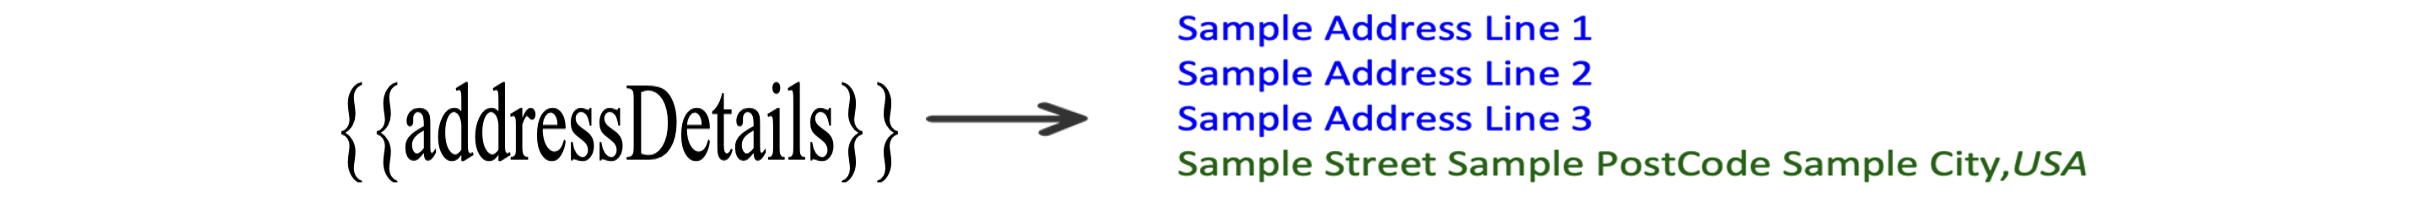
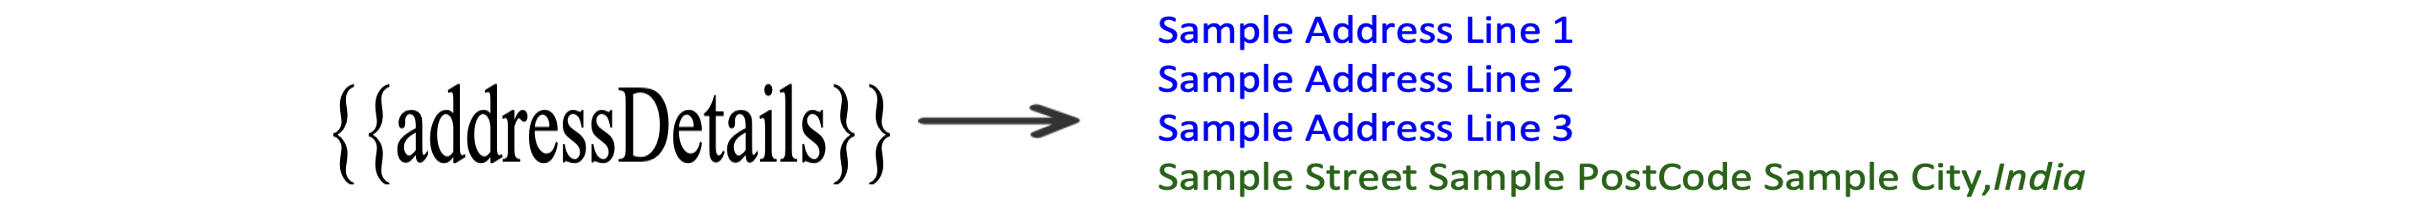
updated fragments constructs

diff --git a/src/pages/overview/document-generation-api/fragments.md b/src/pages/overview/document-generation-api/fragments.md
@@ -45,7 +45,7 @@ To resolve the text tags used in the above fragments, the **jsonDataForMerge** j
   "zipcode": "Sample zipcode",
   "firstname": "John",
   "lastname": "Roy",
-  "country": "USA",
+  "country": "India",
   "street": "Sample Street",
   "postcode": "Sample PostCode",
   "arr" : [1,2,3]
@@ -103,20 +103,20 @@ Evaluate value of fragments based on the conditions.
 [
   {
     "addressDetails": "<br>{{streetDetails}}<br>{{localityDetails}}",
-    "streetDetails": "<span style=\"color: 0000FF;\">{{addressline1}}<br>{{addressline2}}<br>{{addressline3}}",
-    "localityDetails": "<span style=\"color: 006400;\">{% conditional-section expr(country=\"USA\") %}{{street}} {{postcode}} {{city}},<i>{{country}}</i> {% end-section %} {% conditional-section expr(country=\"India\") %}{{street}} {{city}} {{state}} {{zip}},<i>{{country}}</i> {% end-section %}"
+    "streetDetails": "<span style=\"color: 0000FF;\">{{addressline1}}<br>{{addressline2}}<br>{{addressline3}}</span>",
+    "localityDetails": "<span style=\"color: 006400;\">{% conditional-section expr(country=\"India\") %}{{street}} {{postcode}} {{city}},<i>{{country}}</i> {% end-section %}{% conditional-section expr(country=\"USA\") %}{{street}}{{city}} {{state}} {{zip}},<i>{{country}}</i> {% end-section %}</span>"
   },
   {
-    "fullname": "<span style=\"color: ff0000;\">{{firstname}} {{lastnameStyled}}",
-    "lastnameStyled": "<span STYLE=\"font-size:14mm\"><b><i>{{lastname}}</i></b>"
+    "fullname": "<span style=\"color: ff0000;\">{{firstname}} {{lastnameStyled}}</span>",
+    "lastnameStyled": "<span STYLE=\"font-size:14mm\"><b><i>{{lastname}}</i></b></span>"
   }
 ]
 ```
 In the above example, the `addressDetails` depends upon `streetDetails` and `localityDetails`. But format of the address vary from country to country.
-For a country like USA, the format of `localityDetails` is
+For a country like India, the format of `localityDetails` is
 `street`
 `postCode city`
-`country`. For a country like India, the format of `localityDetails` is
+`country`. For a country like USA, the format of `localityDetails` is
 `street`
 `city, state zip`
 `country`.
@@ -138,9 +138,9 @@ Setting the tag as optional will replace the tag with empty string if it's value
 ]
 ```
 
-In the above example, the fragment tag `fullName` which is the composition of other tags namely `firstName`, `middleName` and `lastName`. But there are some people who don't have `middleName`. So, `middleName` needs to be optional, i.e, it should be ignore if it's value does n't exist.
+In the above example, the fragment tag `fullName` which is the composition of other tags namely `firstName`, `middleName` and `lastName`. But there are some people who don't have `middleName`. So, middleName needs to be optional, i.e, it should be ignored if it's value doesn't exist.
 
-![Output of fragment with condition in document](../images/fragments-optional.png)
+![Output of fragment with optional value in document](../images/fragments-optional.png)
 
 ### Default
 A default value can be specified for the tag used inside the fragment. In case, the specified tag is not present in the input data or fragment data, that tag gets replaced with the default value.
@@ -157,7 +157,7 @@ A default value can be specified for the tag used inside the fragment. In case, 
 
 In the above example, if the tag `organisation` does not exist in fragment or normal json, then default vaule (i.e. "Org") will be used.
 
-![Output of fragment with condition in document](../images/fragments-default.png)
+![Output of fragment with default value in document](../images/fragments-default.png)
 
 ### Prefix
 Prefix is value appended before that tag used inside the fragment.
@@ -173,31 +173,5 @@ Prefix is value appended before that tag used inside the fragment.
 ]
 ```
 
-![Output of fragment with condition in document](../images/fragments-prefix.png)
-
-### Expression
-The Expressions and Jsonata functions are supported inside the fragment. We can pass expressions inside fragments using `expr()` tag.
-
-**Input Json**
-```json
-{
-  
-  "arr" : [1,2,3],
-  ...
-}
-```
-**Fragment Json**
-```json
-[
-  {
-    "exprFragment" : "Sum of the array is {{expr($sum(arr))}}"
-  },
-  {
-    ...
-  }
-]
-```
-**Note:** *The argument to expression function (`arr` in above case) should be part of  input json only.*
-
-![Output of fragment with condition in document](../images/fragments-expression.png)
+![Output of fragment with prefix in document](../images/fragments-prefix.png)
 
